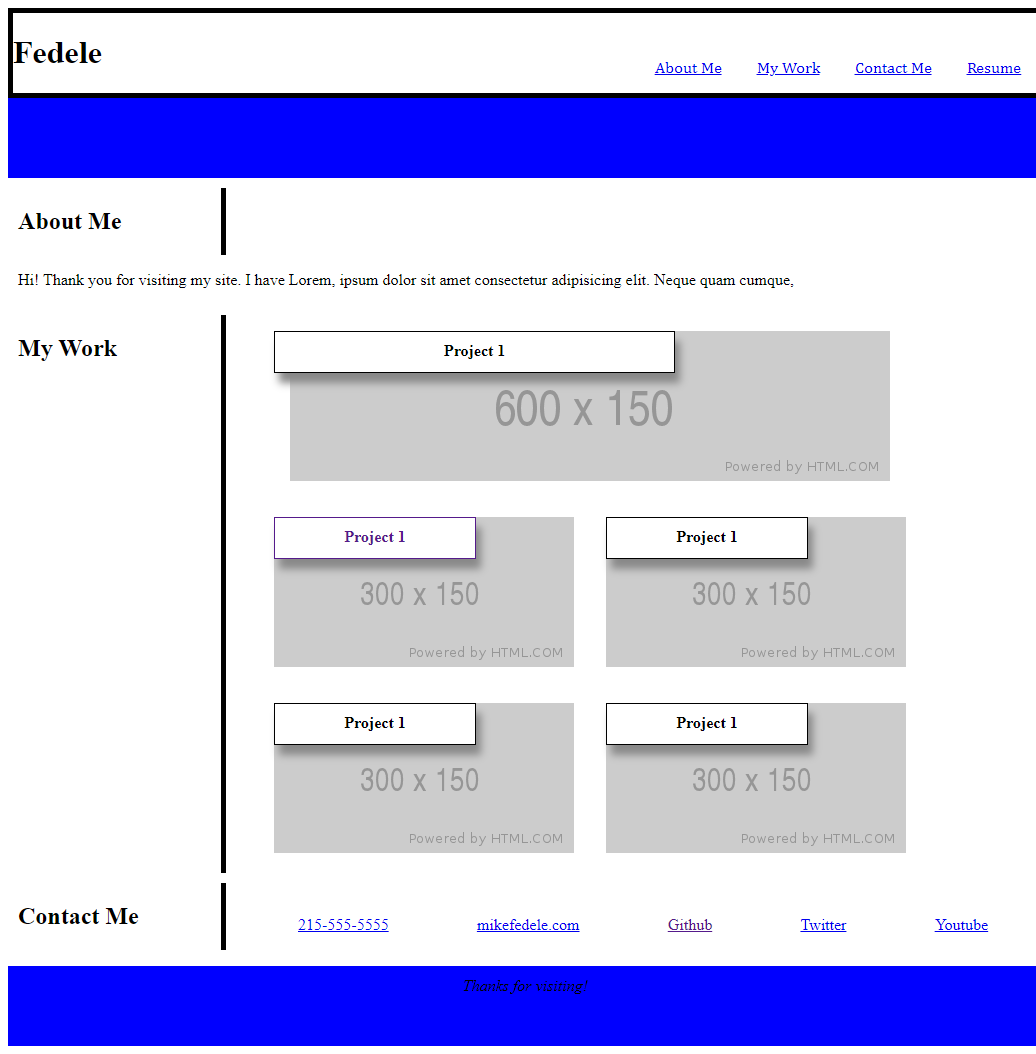
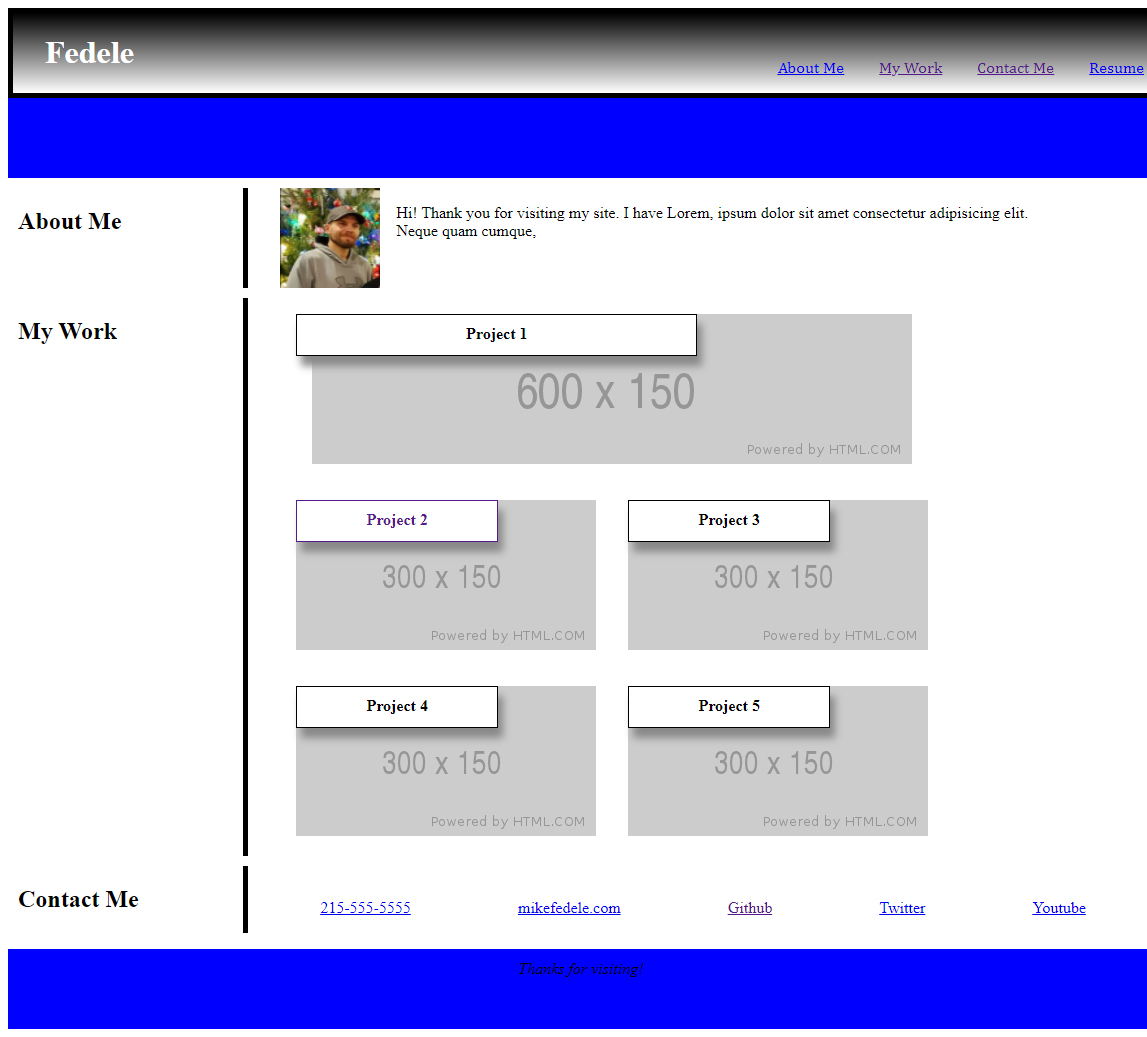
final push

diff --git a/assets/style.css b/assets/style.css
@@ -4,21 +4,21 @@ header {
     width: 100%;
     height: 80px;
     background-image: linear-gradient(black, white)
-    
-
-
     }
-aside {
+
+    aside {
     width: 20%;
     border-right: 5px solid black;
     background-color: white;
     margin-right: 2em;
 }
+
 #title {
     width: 15%;
     color: white;
     padding-left: 1em;
 }
+
 .navigation {
     display: flex;
     flex-direction: row;
@@ -47,9 +47,7 @@ aside {
     /* line-height: 5; */
 }
 
-/* main {
-    background-color: gainsboro;
-} */
+
 .banner {
     position: absolute;
     /* top: 50%; */
@@ -65,9 +63,11 @@ aside {
 .banner h4 {
     margin: 0 auto;
 }
+
 .img-box {
     position: relative;
     text-align: center;
+    margin: 1em;
 }
 
 .row {

diff --git a/index.html b/index.html
@@ -7,7 +7,8 @@
 
     <link rel="stylesheet" href="./assets/style.css" />
 </head>
-<!-- no link to resume -->
+<!-- link to resume n/a -->
+
 <body>
     <div id="top">
         <header>
